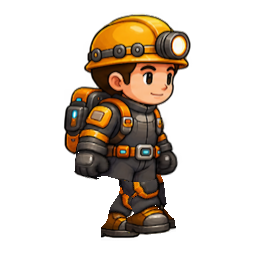
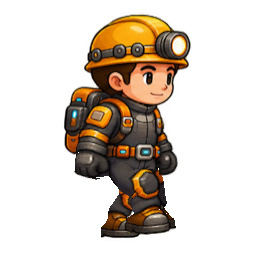
fix: 걷기 모션의 바지와 무릎 접합 보완

Changed region(s): [[0.4062, 0.6562, 0.625, 0.75], [0.5312, 0.75, 0.5625, 0.7812]]

diff --git a/sub-terra/Assets/_Project/Editor/SmoothWalkCycleBaker.cs b/sub-terra/Assets/_Project/Editor/SmoothWalkCycleBaker.cs
@@ -53,9 +53,11 @@ namespace SubTerra.Editor
                 regions.Clear();
                 triangles.Clear();
                 // 각 다리의 메시를 분리해, 서로 교차할 때 사잇면이 길게 늘어나지 않게 한다.
-                AddRegion(2, new[]{137,168,156,172,165,185,166,194,164,206,159,215,168,220,174,228,173,242,131,242,131,229,138,221,137,214,137,202,132,190,131,184});
-                AddRegion(1, new[]{110,168,134,172,137,182,136,193,132,207,128,217,124,219,133,229,134,242,80,242,80,228,89,220,95,215,95,205,101,191,101,181});
-                AddRegion(0, new[]{0,0,256,0,256,169,174,169,174,180,159,180,147,183,128,183,111,179,108,177,94,182,76,178,70,169,0,169});
+                AddRegion(2, new[]{138,168,159,168,156,172,165,185,166,194,164,206,159,215,168,220,174,228,173,242,131,242,131,229,138,221,137,214,137,202,132,190,131,184});
+                AddRegion(1, new[]{110,168,138,168,137,182,136,193,132,207,128,217,124,219,133,229,134,242,80,242,80,228,89,220,95,215,95,205,101,191,101,181});
+                // 고정 바지 밑단이 움직이는 허벅지를 가로로 자르지 않게 접합선(170)까지만 덮는다.
+                // 양손 영역은 기존 윤곽을 유지하고, 접합선 아래 바지는 각 다리 메시가 담당한다.
+                AddRegion(0, new[]{0,0,256,0,256,169,174,169,174,180,159,180,159,170,110,170,110,177,94,182,76,178,70,169,0,169});
                 positions = new Vector3[pixels.Count];
                 var uv = new Vector2[pixels.Count];
                 for (int i = 0; i < pixels.Count; i++) uv[i] = new Vector2(pixels[i].x / 256, 1 - pixels[i].y / 256);
@@ -141,9 +143,11 @@ namespace SubTerra.Editor
         {
             private readonly Vector2 originalHip, originalKnee, originalAnkle, hip, knee, ankle;
             private readonly float thighRotation, shinRotation, bootRotation, thighScale, shinScale;
+            private readonly float bodyBob;
 
             public LegPose(bool near, float phase, float bob)
             {
+                bodyBob = bob;
                 originalHip = near ? new Vector2(119, 82) : new Vector2(144, 82);
                 originalKnee = near ? new Vector2(119, 61) : new Vector2(150, 61);
                 originalAnkle = near ? new Vector2(108, 36) : new Vector2(150, 36);
@@ -169,12 +173,27 @@ namespace SubTerra.Editor
             public Vector2 Deform(Vector2 p)
             {
                 float down = 256 - p.y;
-                Vector2 thigh = hip + Rotate((p - originalHip) * thighScale, thighRotation);
-                Vector2 shin = knee + Rotate((p - originalKnee) * shinScale, shinRotation);
-                Vector2 boot = ankle + Rotate(p - originalAnkle, bootRotation);
-                return Vector2.Lerp(Vector2.Lerp(thigh, shin, Mathf.SmoothStep(0, 1, Mathf.InverseLerp(186, 204, down))),
-                    boot, Mathf.SmoothStep(0, 1, Mathf.InverseLerp(211, 225, down)));
+                Vector2 deformed;
+                if (down <= 204)
+                {
+                    float bend = Mathf.SmoothStep(0, 1, Mathf.InverseLerp(186, 204, down));
+                    // 회전된 위치의 평균은 무릎 폭을 줄인다. 공통 관절을 중심으로 각도를 보간한다.
+                    float angle = BlendAngle(thighRotation, shinRotation, bend);
+                    deformed = knee + Rotate(p - originalKnee, angle) * Mathf.Lerp(thighScale, shinScale, bend);
+                }
+                else
+                {
+                    float bend = Mathf.SmoothStep(0, 1, Mathf.InverseLerp(211, 225, down));
+                    float angle = BlendAngle(shinRotation, bootRotation, bend);
+                    deformed = ankle + Rotate(p - originalAnkle, angle) * Mathf.Lerp(shinScale, 1f, bend);
+                }
+                // 바지 윗단은 몸통과 같은 위치를 유지하고, 허벅지 안쪽에서 다리 변형으로 이어 준다.
+                float attachment = Mathf.SmoothStep(0, 1, Mathf.InverseLerp(170, 184, down));
+                return Vector2.Lerp(p + Vector2.up * bodyBob, deformed, attachment);
             }
+
+            private static float BlendAngle(float from, float to, float weight) =>
+                Mathf.LerpAngle(from * Mathf.Rad2Deg, to * Mathf.Rad2Deg, weight) * Mathf.Deg2Rad;
         }
         private static void Pose(float phase)
         {

diff --git a/sub-terra/Assets/_Project/Tests/EditMode/App/Readiness/PlayerWalkCycleTests.cs b/sub-terra/Assets/_Project/Tests/EditMode/App/Readiness/PlayerWalkCycleTests.cs
@@ -11,6 +11,32 @@ namespace SubTerra.App.Tests.EditMode.Readiness
     public sealed class PlayerWalkCycleTests
     {
         [Test]
+        public void WalkBake_KneesKeepTheirWidthAndHipSeamStaysAttached()
+        {
+            System.Type baker = null;
+            foreach (var assembly in System.AppDomain.CurrentDomain.GetAssemblies())
+                if ((baker = assembly.GetType("SubTerra.Editor.SmoothWalkCycleBaker")) != null) break;
+            Assert.That(baker, Is.Not.Null);
+            var poseType = baker.GetNestedType("LegPose", BindingFlags.NonPublic);
+            var deform = poseType.GetMethod("Deform");
+            foreach (var near in new[] { true, false })
+            for (int i = 0; i < 16; i++)
+            {
+                float phase = i / 16f;
+                float bob = 1.5f - 3.5f * Mathf.Cos(phase * 4 * Mathf.PI);
+                var pose = System.Activator.CreateInstance(poseType, new object[] { near, phase, bob });
+                var knee = new Vector2(near ? 119 : 150, 61);
+                var left = (Vector2)deform.Invoke(pose, new object[] { knee - Vector2.right * 5f });
+                var right = (Vector2)deform.Invoke(pose, new object[] { knee + Vector2.right * 5f });
+                Assert.That(Vector2.Distance(left, right), Is.GreaterThan(9.5f),
+                    $"무릎 접합부가 눌리면 안 된다: near={near}, frame={i + 1}");
+                var hem = new Vector2(near ? 119 : 144, 87);
+                Assert.That(Vector2.Distance((Vector2)deform.Invoke(pose, new object[] { hem }),
+                    hem + Vector2.up * bob), Is.LessThan(.001f));
+            }
+        }
+
+        [Test]
         public void WalkCycle_UsesAllSixteenDistinctFramesAndLoopsAtOneSecond()
         {
             var prefab = AssetDatabase.LoadAssetAtPath<GameObject>("Assets/_Project/Prefabs/Gameplay/Player/Player.prefab");

diff --git a/work_process/player-walk-knee-connection-20261026.md b/work_process/player-walk-knee-connection-20261026.md
@@ -1,0 +1,43 @@
+# PR #242 바지·무릎 연결 보완 — 2026-10-26
+
+## 위치와 상태
+
+- 저장소 `C:/Users/jeone/sub-terra`, Unity 프로젝트는 하위 `sub-terra/` (Hub 첫 번째 프로젝트), 시작 씬 Bootstrap.
+- 브랜치 `codex/player-walk-two-leg-cycle`, 시작 커밋 `d71d51bc`. 기존 #242 후속 수정. 사용자 요청에 따라 이 변경을 같은 브랜치에 커밋·푸시하며 새 PR은 만들지 않는다.
+- GitHub 조회 시 #242는 열려 있고 mergeable=false였다. 최신 main 통합/충돌 정리는 이번 시각 수정에 포함하지 않았다.
+
+## 원인과 수정
+
+사용자 GIF와 실제 PNG 16장을 비교했다. 원본 다리가 완전히 떨어진 두 조각인 것보다는, 원화 분할·변형 방식 때문에 잘라 붙인 것처럼 보이는 문제였다.
+
+1. 고정 몸통 메시가 바지 아래까지 덮고, 그 아래에서 허벅지만 움직여 수평 절단선이 생겼다. 확대 비교로 확인했다. 고정 바지 영역을 공통 접합선까지 줄이고, 각 다리 메시를 바지 윗부분까지 확장했다. 접합선은 몸통과 같은 위치를 유지하다 허벅지 변형으로 점진적으로 이어진다.
+2. 허벅지·종아리를 각각 회전시킨 위치의 평균은 굽힘 각도가 커질수록 관절 폭을 줄인다. 공통 무릎/발목을 중심으로 회전 각도를 보간하도록 변경했다.
+
+기존 원화, 16장/16fps·1초 주기, 양발 교대·보폭·접지·팔 스윙을 유지했다. 변형 계산은 Editor에서 PNG를 굽는 데만 사용하며 런타임은 기존 SpriteRenderer 재생을 쓴다.
+
+## 변경 파일
+
+- `sub-terra/Assets/_Project/Editor/SmoothWalkCycleBaker.cs`
+- `sub-terra/Assets/_Project/Tests/EditMode/App/Readiness/PlayerWalkCycleTests.cs`
+- `sub-terra/Assets/_Project/Art/Characters/Player/Frames/Walk/walk_01.png` ~ `walk_16.png`
+- `work_process/images/player-walk-knee-preview-20261026.gif`, `player-walk-knee-comparison-20261026.gif`, `player-walk-knee-poses-20261026.png`
+- 이 기록, 기존 걷기 기록의 후속 링크, `init/rules/lessons.md`
+
+Idle PNG·기존 .meta GUID·이동/점프/사다리 로직·씬·Packages·ProjectSettings의 내용 변경 없음. 빌더에서 프리팹/클립 저장은 수행했지만 내용 diff는 없다. Inspector 추가 연결 불필요.
+
+## 확인
+
+- 실제 출력 PNG의 16개 자세를 비교하고, 확대 이미지에서 바지의 수평 절단선이 사라진 것을 확인했다.
+- [수정 전/후 GIF](images/player-walk-knee-comparison-20261026.gif): 왼쪽 PR #242 원본, 오른쪽 이번 결과. 실제 PNG를 같은 1초 주기로 포장했다.
+- [새 걷기 GIF](images/player-walk-knee-preview-20261026.gif), [16개 자세](images/player-walk-knee-poses-20261026.png).
+- 최종 EditMode **2/2 통과**, 실패/스킵 0, 0.90초. 양쪽 무릎 폭·허리 접점과 실제 프리팹의 16장 연결·고유 프레임·마지막 프레임·1초 반복을 검사했다.
+- 결과: `work_process/tools/walk242-connected-final-20261026/EditMode-summary.txt`.
+- 최종 굽기 중 기존 Idle→Walk 전환 검사도 통과. C# 컴파일 오류 없음. Unity 라이선스/연결 서비스 로그는 이번 수정 대상이 아니다.
+- **미검증:** Bootstrap 실제 이동 중 좌우 걷기·정지 전환과 Windows exe 체감. 자동 검사와 PNG 비교를 실제 게임 품질 승인으로 간주하지 않는다.
+- 수동 체크: Bootstrap → 탐사 → 좌우 걷기 → 정지/재출발. 무릎 위 수평 잘림, 다리 교차, 16→1 프레임 연결에서 새 튐이 없는지 확인한다.
+
+## #249 작업 보존
+
+- 앞선 지상 인벤토리 작업은 stash `3f7e30bdc7327cb42c981bd0ed21bc668c334483`에 경로를 지정해 보존했다. 원래 브랜치는 `codex/issue-249-surface-inventory`.
+- 코드·프리팹·검사·새 파일·이미지·기록·lessons 변경을 포함한다. 기존 #211/#240 stash는 유지했다.
+- 돌아갈 때 이번 걷기 변경을 먼저 보존하고 #249 브랜치에서 위 stash를 apply한다. 복원 확인 전 stash를 삭제하지 않는다. 이번 걷기 수정은 #242 브랜치로 전달한다. #249는 아직 stash에만 있으므로 다른 PC로 전달하려면 복원 후 별도 커밋·푸시가 필요하다.

diff --git a/init/rules/lessons.md b/init/rules/lessons.md
@@ -9,3 +9,4 @@
 | 2026-10-18 | 새 통합 검사에서 DemoWorld/Structural 참조 누락으로 컴파일 실패 | 테스트 asmdef 의존성 미확인 | 통합 검사 작성 전 사용 타입과 테스트 어셈블리 참조를 대조 |
 | 2026-10-18 | 이웃 타일을 뒤에서 그리기만 해 두 복제본의 겹침을 놓침 | 원본 하나가 보이는 조합만 검사 | 인접 가로·대각선 양쪽이 동시에 흔들리는 경계도 검사 |
 | 2026-10-19 | 보상 안내 여백 수정으로 보상 행이 하단 구획을 벗어남 | 안내와 보상 위치를 함께 이동 | 안내는 설명에 이어 배치하고 보상 행은 기존 하단 구획 유지 |
+| 2026-10-26 | 걷기에서 바지 밑단과 허벅지가 잘라 붙인 것처럼 보임 | 고정 몸통 마스크가 움직이는 다리 위를 덮고 관절 위치 평균이 폭을 줄임 | 공통 접합선과 회전 보간을 사용하고 모든 자세의 무릎을 확대 비교한다 |

diff --git a/work_process/player-walk-smooth-followup-20261022.md b/work_process/player-walk-smooth-followup-20261022.md
@@ -1,5 +1,7 @@
 # PR #242 걷기 후속 — 2026-10-22
 
+> 2026-10-26 무릎 위 수평 단절과 관절 폭 감소를 보완했다. 최신 로컬 결과와 미게시 상태는 [접합 후속 기록](player-walk-knee-connection-20261026.md)을 따른다.
+
 ## 현재 상태
 
 - 사용자가 2026-10-22 마지막 미리보기를 확인한 뒤 기존 PR #242의 커밋·푸시·갱신을 승인했다. 아래 16장 후속과 데스크탑 인계 자료를 같은 브랜치에 게시한다. 기존 4자세 구현 커밋은 `244f84fe`다.
